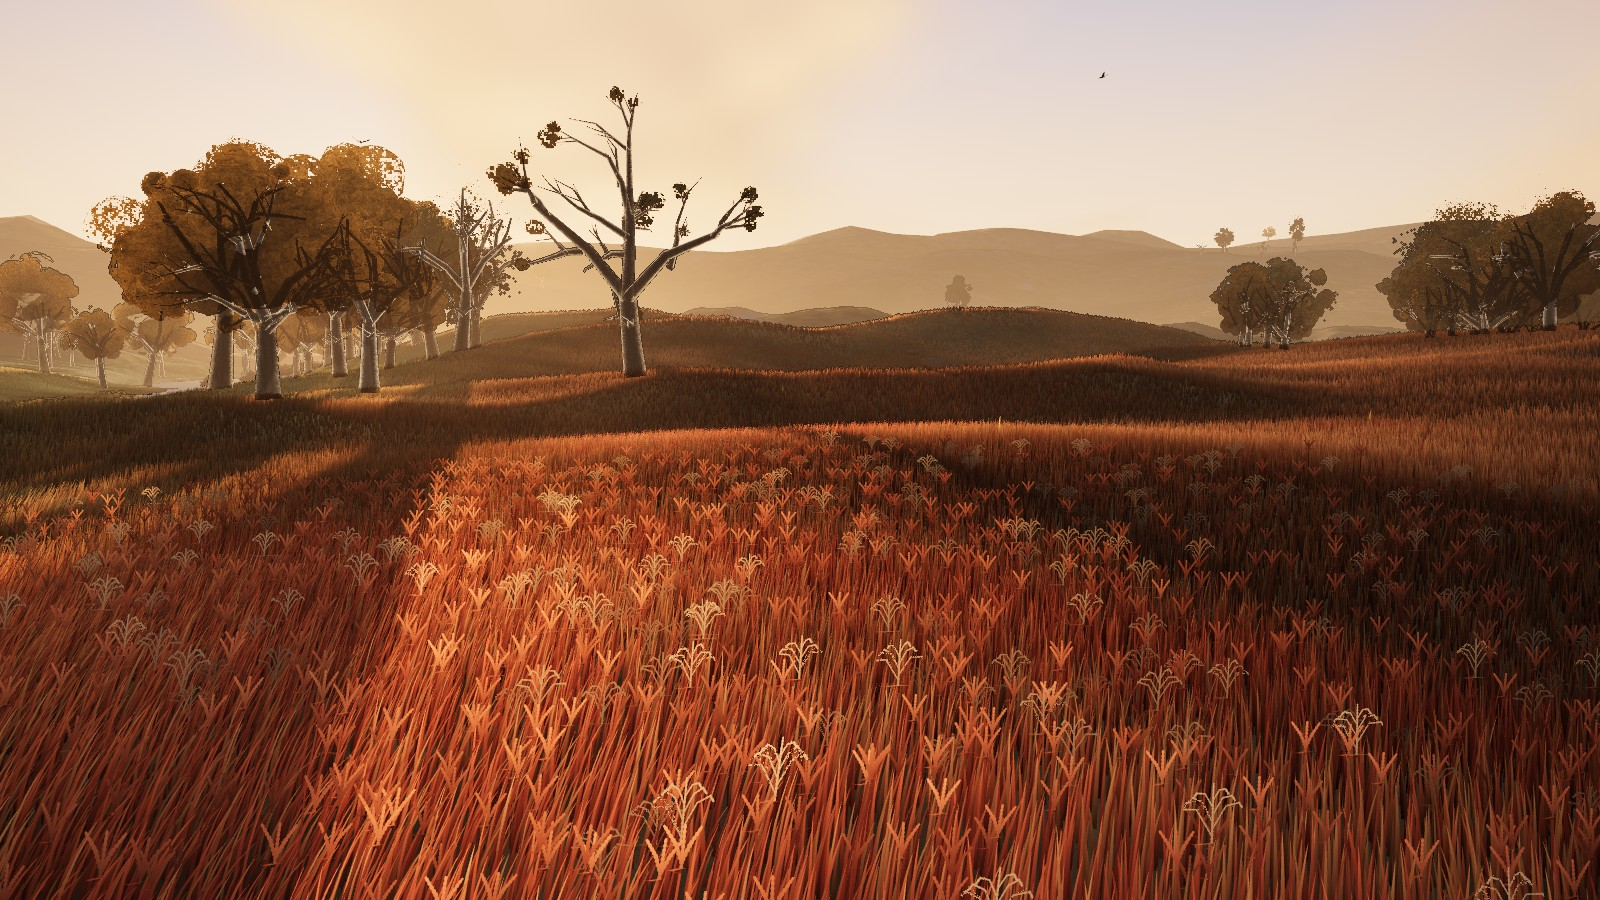
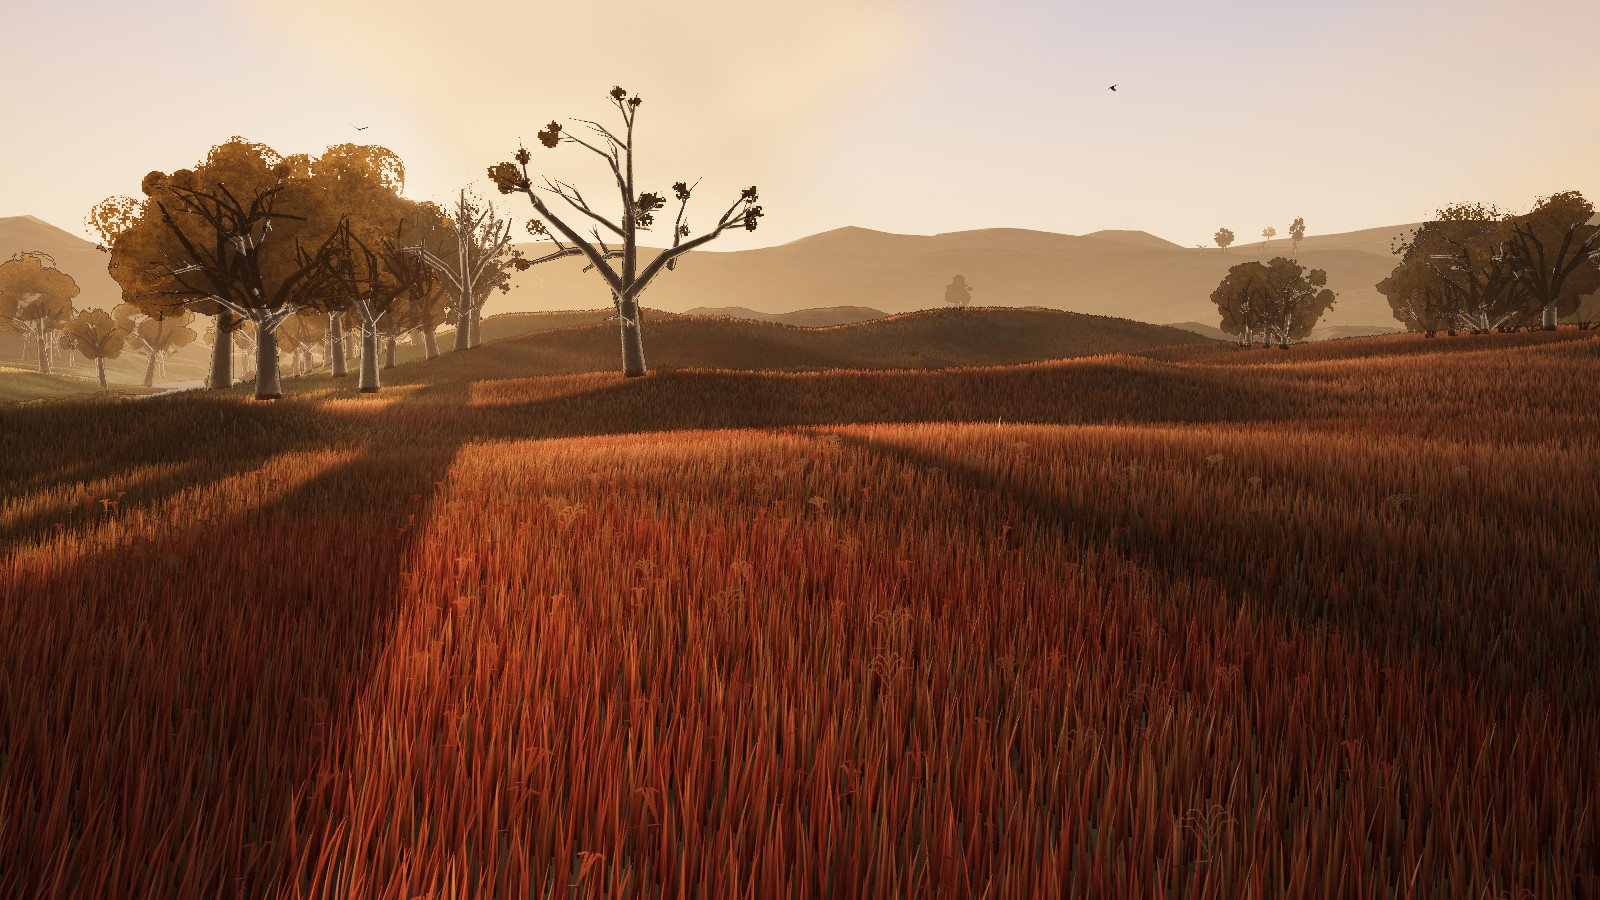
R2.9 grass: seed heads toned down to texture
Head share cut to 40 percent of before, strokes thinner and softer, colour close to the blades and a touch darker than their backlit tips, size 0.6x to 1.3x, heads follow the culm and wind and lean individually, turkey-foot prongs splay unevenly. After stills re-shot.

diff --git a/src/render/grass.ts b/src/render/grass.ts
@@ -456,14 +456,15 @@ void main() {
   float seedHW = 0.0;     // and the full width of its quad (m)
 #if LEVEL == 0
   // (the old gate, bio above 0.45, never opened: the vegetation texture's biomass tops out near 0.4 in this sim)
-  seedFlag = step(rB, uSeedFrac * 0.42 * smoothstep(0.1, 0.28, bio)) * (1.0 - burn) * step(fType, 0.5);
+  seedFlag = step(rB, uSeedFrac * 0.17 * smoothstep(0.1, 0.28, bio)) * (1.0 - burn) * step(fType, 0.5);
   if (seedFlag > 0.5) {
     // two kinds of head, in stands: 1 = big bluestem's three-pronged turkey foot, 2 = switchgrass's airy spray
     seedFlag += step(u01(pcg(h6 + 8u)), 0.12 + 0.7 * smoothstep(0.4, 0.62, patch1));
     // the flowering culms stand well above the leaf canopy; the head has a fixed size in metres (a turkey foot is about 9 cm across)
     H *= 1.3 + 0.35 * rA;
-    seedHead = min((seedFlag < 1.5 ? 0.1 : 0.2) / H, 0.45);
-    seedHW = seedFlag < 1.5 ? 0.095 : 0.17;
+    float sz = 0.6 + 0.7 * fract(rF * 13.1 + rB * 5.7);   // heads vary 0.6x to 1.3x
+    seedHead = min((seedFlag < 1.5 ? 0.1 : 0.2) * sz / H, 0.45);
+    seedHW = (seedFlag < 1.5 ? 0.095 : 0.17) * sz;
   }
 #endif
   if (fType > 0.5) H *= 1.08 + 0.22 * rD;
@@ -521,7 +522,10 @@ void main() {
     float aY0 = phi > 0.002 ? sin(s0) / phi : v0;
     vec3 c0 = root + vec3(dir.x * aH0 * H, aY0 * H, dir.y * aH0 * H);
     vec3 t0 = normalize(vec3(dir.x * sin(s0), cos(s0), dir.y * sin(s0)));
-    tang = normalize(mix(t0, vec3(0.0, 1.0, 0.0), 0.65));
+    // mostly the culm's own (wind-bent) direction, a little straighter, and each head leans a different way across the view
+    vec3 crh = normalize(vec3(viewMatrix[0][0], 0.0, viewMatrix[2][0]) + vec3(1e-5));
+    float tl = (fract(rA * 9.7 + rC * 3.3) - 0.5) * 0.9;
+    tang = normalize(mix(t0, vec3(0.0, 1.0, 0.0), 0.2 + 0.25 * rE) + crh * tl);
     centre = c0 + tang * ((v - v0) * H);
   }
 #endif
@@ -557,7 +561,7 @@ void main() {
   if (fType > 0.5) Wr = normalize(mix(Wf, camRight, 0.92 * smoothstep(0.55, 0.8, vg)));
   float noEdge = fType > 0.5 ? 0.0 : 1.0;
 #if LEVEL == 0
-  if (seedFlag > 0.5) { Wr = normalize(mix(Wf, camRight, 0.94 * smoothstep(0.55, 0.8, vg))); noEdge = 0.0; }
+  if (seedFlag > 0.5) { Wr = normalize(mix(Wf, camRight, (0.6 + 0.25 * rC) * smoothstep(0.55, 0.8, vg))); noEdge = 0.0; }
 #endif
 
   vec3 wp3 = centre + Wr * (side * 0.5 * wv) + camRight * (side * 0.5 * wv * 0.9 * edgeOn * noEdge);
@@ -698,13 +702,18 @@ void stroke(vec2 q, vec2 a, vec2 b, float w0, float w1, float ph, inout float be
 float turkeyFoot(vec2 q, float hw, float L, float r, out float along) {
   float best = 1e9;
   along = 0.0;
+  float r1 = fract(r * 7.13 + 0.31), r2 = fract(r * 13.7 + 0.62), r3 = fract(r * 23.1 + 0.17);
   float fork = 0.14 * L;
-  stroke(q, vec2(0.0), vec2(0.0, fork), 0.0028, 0.0028, 0.0, best, along);
-  stroke(q, vec2(0.0, fork), vec2(hw * 0.12 * (r - 0.5), 0.98 * L), 0.0038, 0.0024, 1.0, best, along);
-  stroke(q, vec2(0.0, fork), vec2(-hw * 0.34, 0.56 * L), 0.0036, 0.0038, 2.0, best, along);
-  stroke(q, vec2(-hw * 0.34, 0.56 * L), vec2(-hw * (0.8 + 0.1 * r), 0.95 * L), 0.0038, 0.0024, 3.0, best, along);
-  stroke(q, vec2(0.0, fork), vec2(hw * 0.34, 0.54 * L), 0.0036, 0.0038, 4.0, best, along);
-  stroke(q, vec2(hw * 0.34, 0.54 * L), vec2(hw * (0.8 + 0.1 * (1.0 - r)), 0.93 * L), 0.0038, 0.0024, 5.0, best, along);
+  // the two outer racemes splay by different amounts and reach different heights; the centre one leans a little
+  vec2 el = vec2(-hw * (0.4 + 0.5 * r1), L * (0.74 + 0.22 * r2));
+  vec2 er = vec2(hw * (0.4 + 0.5 * r2), L * (0.74 + 0.22 * r1));
+  vec2 ec = vec2(hw * 0.3 * (r3 - 0.5), L * (0.82 + 0.16 * r3));
+  stroke(q, vec2(0.0), vec2(0.0, fork), 0.0019, 0.0019, 0.0, best, along);
+  stroke(q, vec2(0.0, fork), ec, 0.0026, 0.0015, 1.0, best, along);
+  stroke(q, vec2(0.0, fork), el * vec2(0.4, 1.0) + vec2(0.0, fork * 0.6), 0.0024, 0.0025, 2.0, best, along);
+  stroke(q, el * vec2(0.4, 1.0) + vec2(0.0, fork * 0.6), el, 0.0025, 0.0015, 3.0, best, along);
+  stroke(q, vec2(0.0, fork), er * vec2(0.4, 1.0) + vec2(0.0, fork * 0.6), 0.0024, 0.0025, 4.0, best, along);
+  stroke(q, er * vec2(0.4, 1.0) + vec2(0.0, fork * 0.6), er, 0.0025, 0.0015, 5.0, best, along);
   along = clamp((q.y - fork) / (0.8 * L), 0.0, 1.0);
   return best;
 }
@@ -712,7 +721,7 @@ float turkeyFoot(vec2 q, float hw, float L, float r, out float along) {
 float panicle(vec2 q, float hw, float L, float r, out float along) {
   float best = 1e9;
   along = 0.0;
-  stroke(q, vec2(0.0), vec2(0.0, 0.9 * L), 0.0024, 0.0012, 0.0, best, along);
+  stroke(q, vec2(0.0), vec2(0.0, 0.9 * L), 0.0017, 0.0009, 0.0, best, along);
   for (int k = 0; k < 6; k++) {
     float fk = float(k);
     float sg = (k & 1) == 0 ? -1.0 : 1.0;
@@ -724,9 +733,9 @@ float panicle(vec2 q, float hw, float L, float r, out float along) {
     vec2 p1 = vec2(sg * reach * 0.5, yb + up * 0.45);
     vec2 p2 = vec2(sg * reach, yb + up * (0.62 - 0.2 * rk));
     vec2 p3 = p2 + vec2(sg * hw * 0.1, -0.07 * L);
-    stroke(q, p0, p1, 0.0011, 0.0009, fk, best, along);
-    stroke(q, p1, p2, 0.0009, 0.0016, fk + 3.0, best, along);
-    stroke(q, p2, p3, 0.0016, 0.0022, fk + 6.0, best, along);
+    stroke(q, p0, p1, 0.0007, 0.0006, fk, best, along);
+    stroke(q, p1, p2, 0.0006, 0.0011, fk + 3.0, best, along);
+    stroke(q, p2, p3, 0.0011, 0.0015, fk + 6.0, best, along);
   }
   along = clamp(q.y / L, 0.0, 1.0);
   return best;
@@ -812,17 +821,17 @@ void main() {
       float along;
       float cov = seed < 1.5 ? turkeyFoot(q, vSd.y, vSd.z, bright, along) : panicle(q, vSd.y, vSd.z, bright, along);
       // never thinner than about a pixel, or the heads shimmer
-      aOut = clamp(0.85 - cov / max(fwUv.x * vSd.y, fwUv.y * vSd.z * (1.0 / 0.15)), 0.0, 1.0);
+      aOut = clamp(0.62 - cov / (1.6 * max(fwUv.x * vSd.y, fwUv.y * vSd.z * (1.0 / 0.15))), 0.0, 0.85);
       if (aOut < 0.02) discard;
       float cu = vSd.x * dry;
       vec3 headC;
       if (seed < 1.5) {
         // bronze racemes, pale and yellow at their tips where the anthers hang
-        headC = mix(seedC * mix(0.8, 1.15, along), mix(uCopM, uCopT, along) * 1.3, 0.3 + 0.5 * cu);
+        headC = mix(seedC * mix(0.8, 1.15, along), mix(uCopM, uCopT, along) * 0.95, 0.3 + 0.5 * cu);
       } else {
         headC = mix(seedC * vec3(1.0, 0.84, 0.76), uPanicle, 0.55) * mix(0.8, 1.2, along);
       }
-      albedo = headC * (0.7 + 0.25 * bright);
+      albedo = mix(albedo, headC, 0.5) * (0.6 + 0.2 * bright);   // close to the blades in value, a touch darker than their backlit tips
       headGlow = 1.0;
     }
   }
@@ -902,7 +911,7 @@ void main() {
     float toSun = clamp(dot(-V, L), 0.0, 1.0);
     toSun *= toSun;
     toSun *= toSun;
-    float gl = toSun * (0.3 + 0.7 * lowSun) * uGlow * (0.2 + 0.8 * v * (0.4 + 0.6 * v)) * (1.0 + 0.55 * headGlow);
+    float gl = toSun * (0.3 + 0.7 * lowSun) * uGlow * (0.2 + 0.8 * v * (0.4 + 0.6 * v)) * (1.0 + 0.1 * headGlow);
     vec3 warm = tAlb * vec3(1.45, 1.0, 0.5);
     trans += warm * uSunColor * gl * shadow * RECIPROCAL_PI * mix(1.0, canopyT, 0.5) * (1.0 - 0.9 * uMoon);
   }
